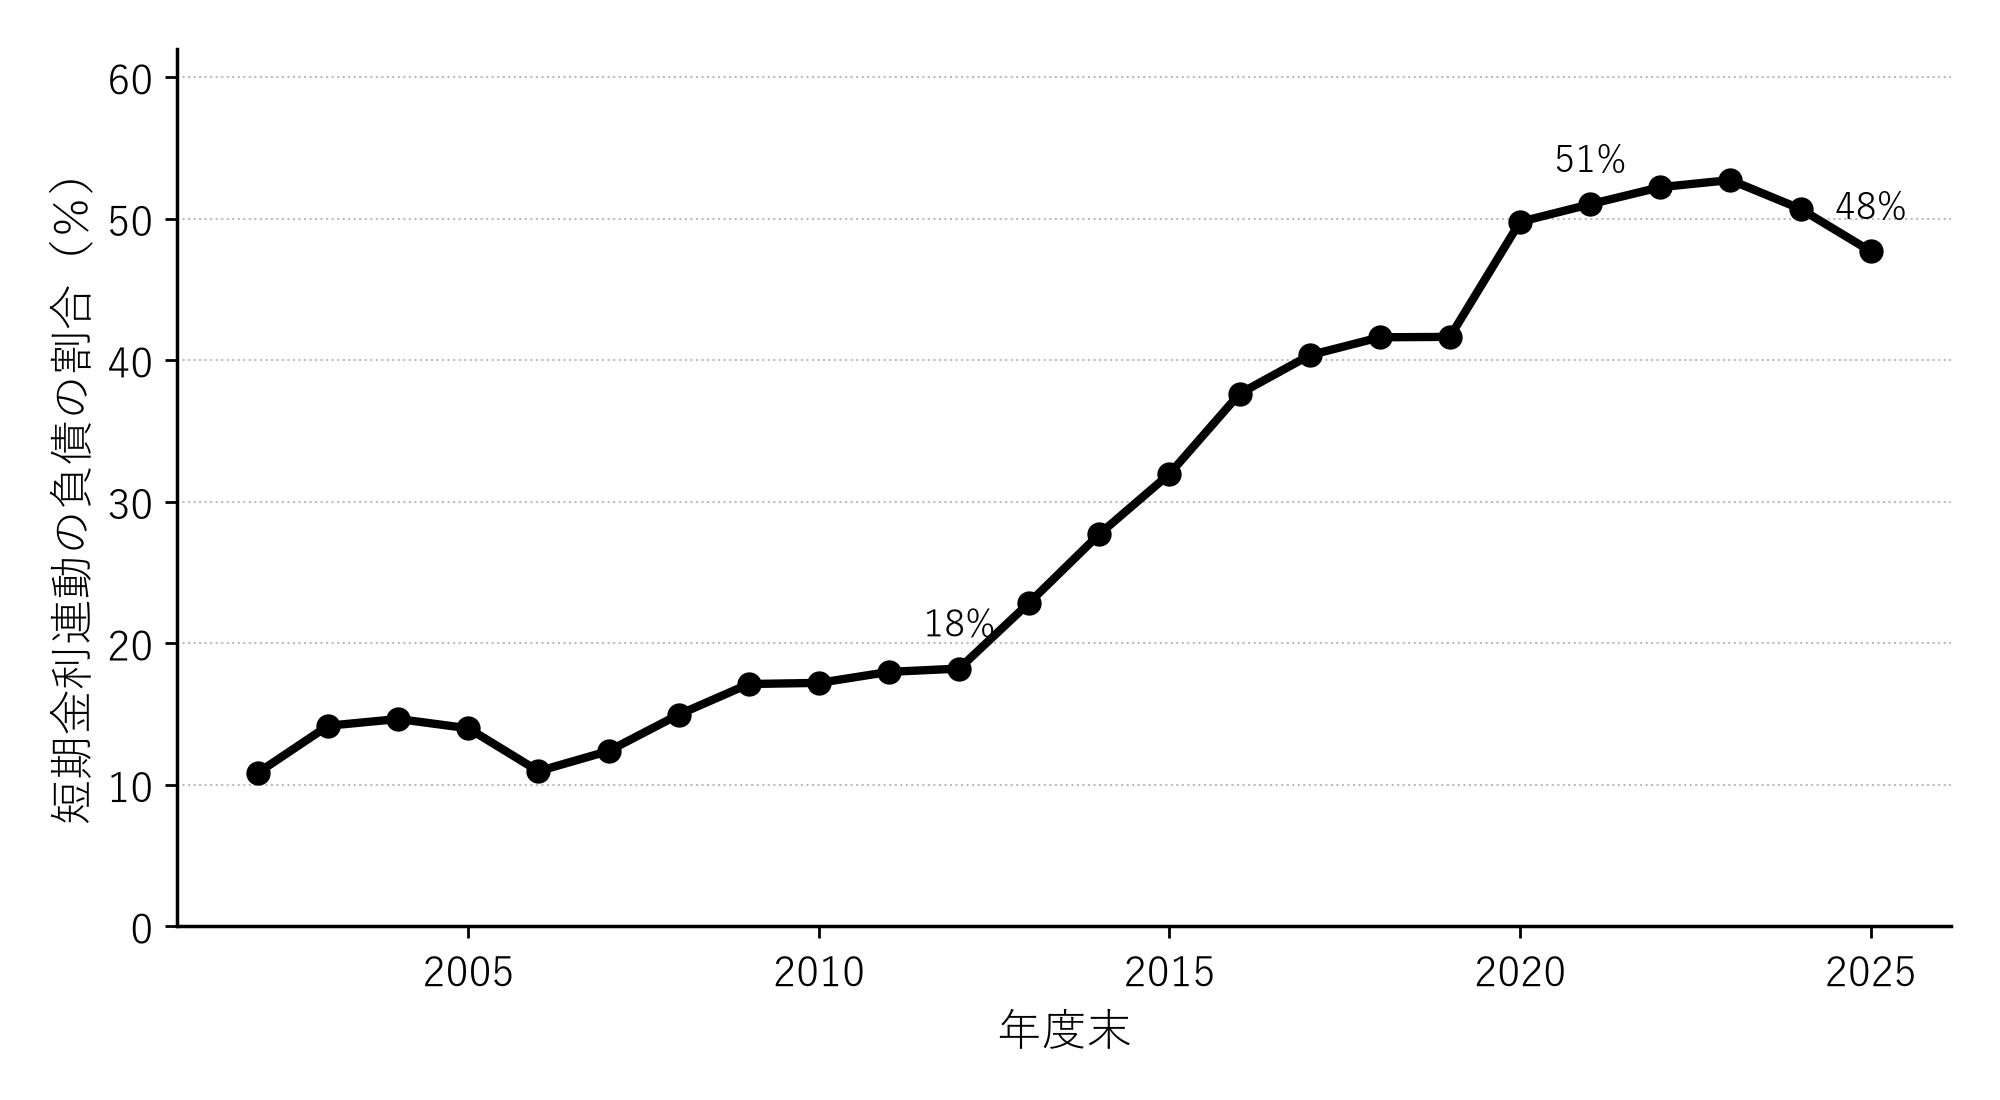
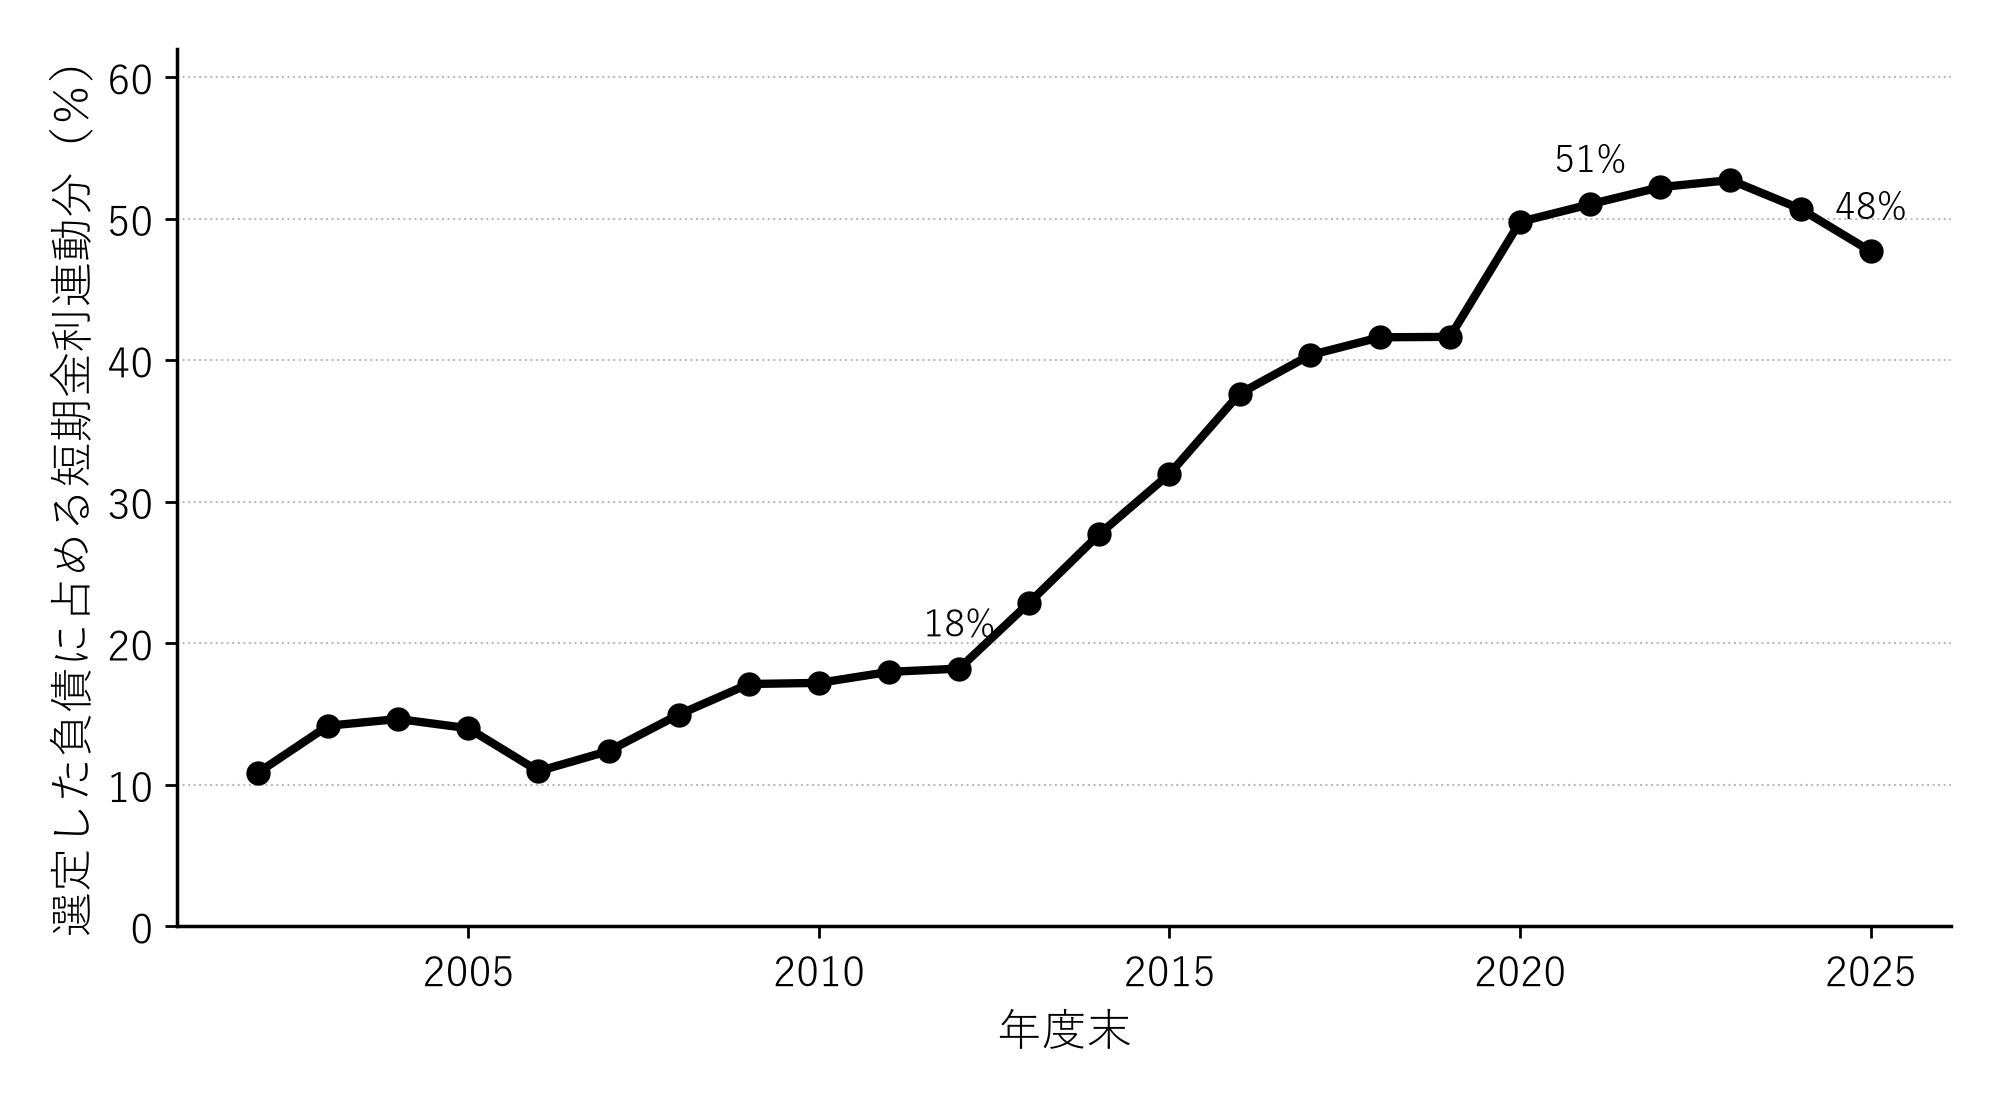
Revise notebook after review: naive-expectation samples, real-time weights, household breakdown, consolidated-government scope

Changed region(s): [[0.031, 0.1545, 0.062, 0.7418], [0.031, 0.7727, 0.062, 0.8345], [0.031, 0.0618, 0.062, 0.0927]]

diff --git a/README.md b/README.md
@@ -14,8 +14,8 @@ Replication notebook for "How Much Did Unexpected Inflation Lighten Japan's Gove
 1. **債務比率の分解**：普通国債残高の対名目GDP比の年ごとの変化を、利払い、事前に見込まれていた名目成長、予想外の物価（GDPデフレーターの実績−政府経済見通し）、予想外の実質成長、赤字等に分解します（論文4節）。
 2. **頑健性**：政府見通しの偏り、民間予想・ナイーブな予想への置き換え、公表当時の統計、税収弾性値の感度（5節）。
 3. **誰が負担したか**：資金循環統計による国債の保有者別の損失と、部門別の名目ネット・ポジションにもとづく損得（6節）。
-4. **統合政府**：一般政府と日本銀行を合わせた名目ネット・ポジション、外部負債の構成、短期金利の感応度（7節）。
-5. **本文の数値との突合せ**：論文本文に書かれた数値181件と、ノートブックの出力が一致するかを自動で判定します（出力は `output/tables/numbers_check.csv`）。
+4. **統合政府**：一般政府と日本銀行を合わせた名目ネット・ポジション、主要負債項目の構成、短期金利の感応度（7節）。
+5. **本文の数値との突合せ**：論文本文に書かれた数値199件と、ノートブックの出力が一致するかを自動で判定します（出力は `output/tables/numbers_check.csv`）。
 
 | ファイル | 内容 |
 |---|---|
